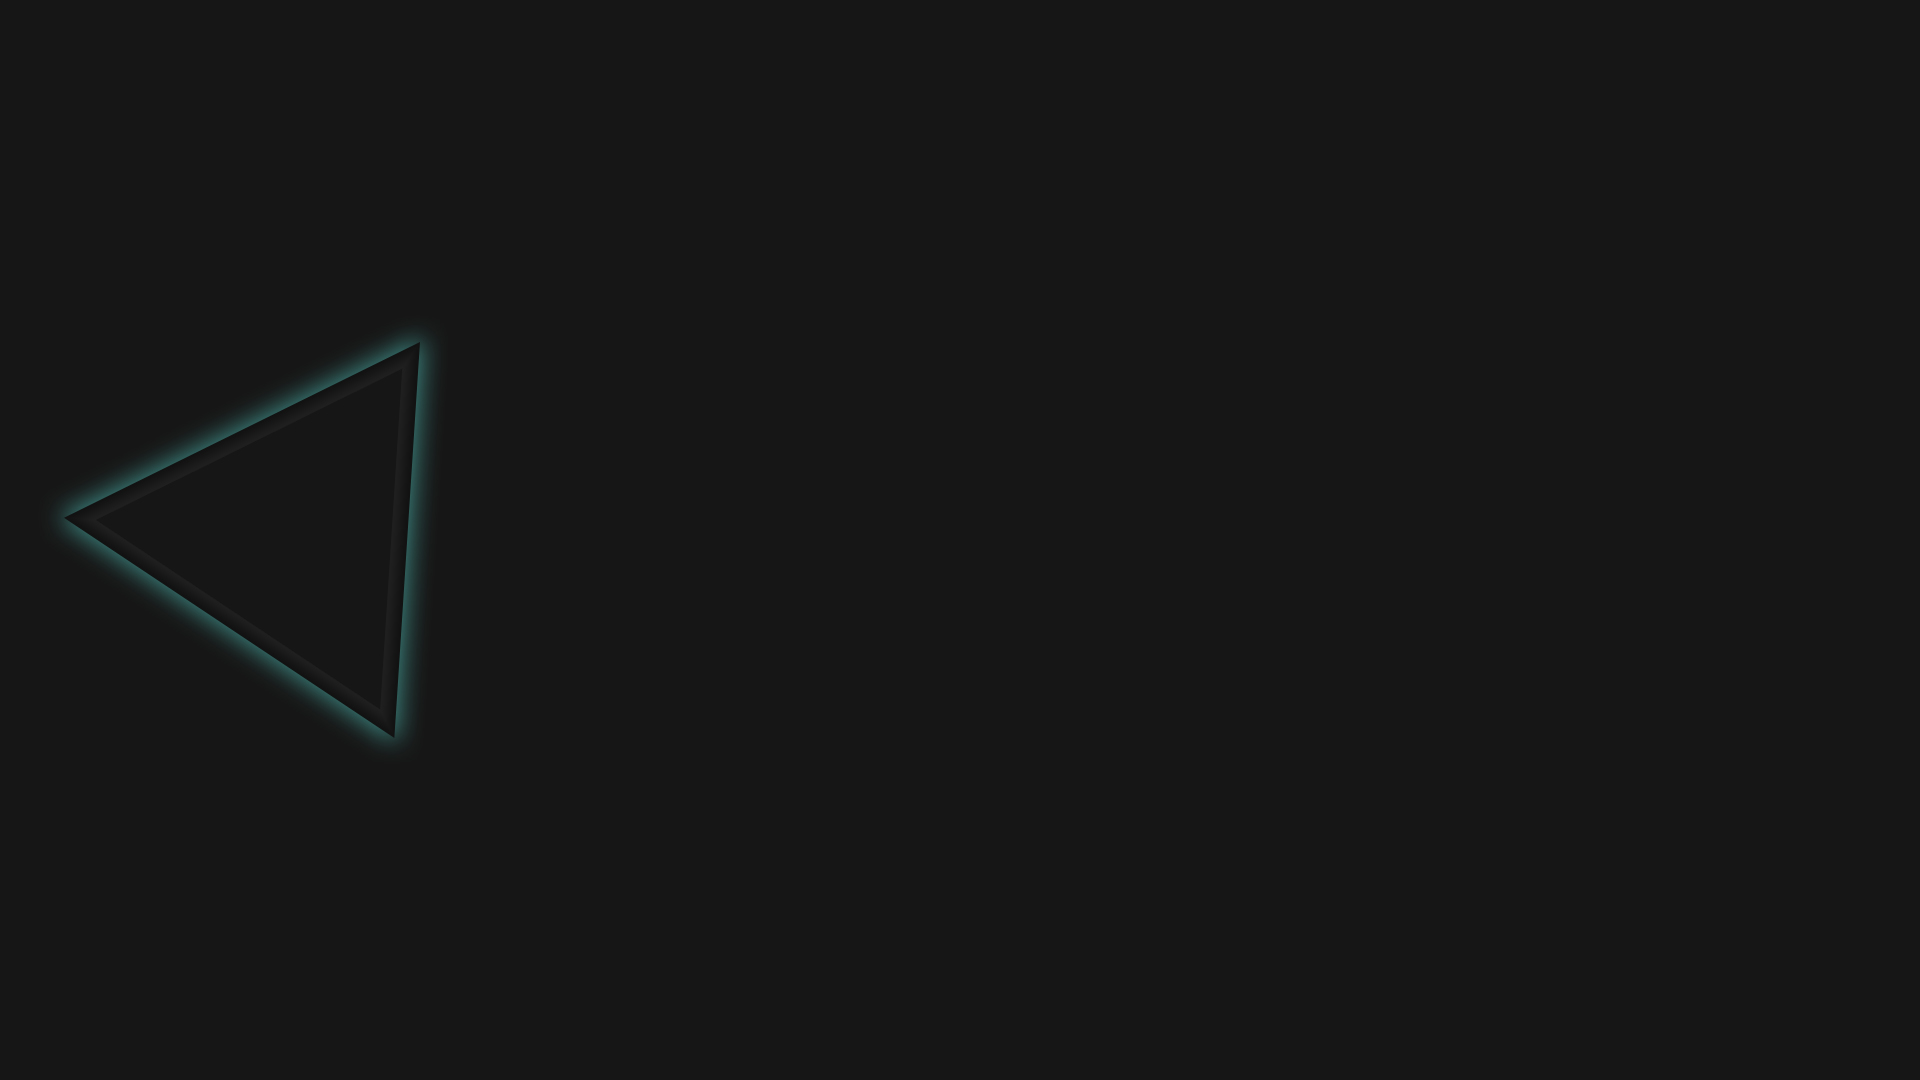
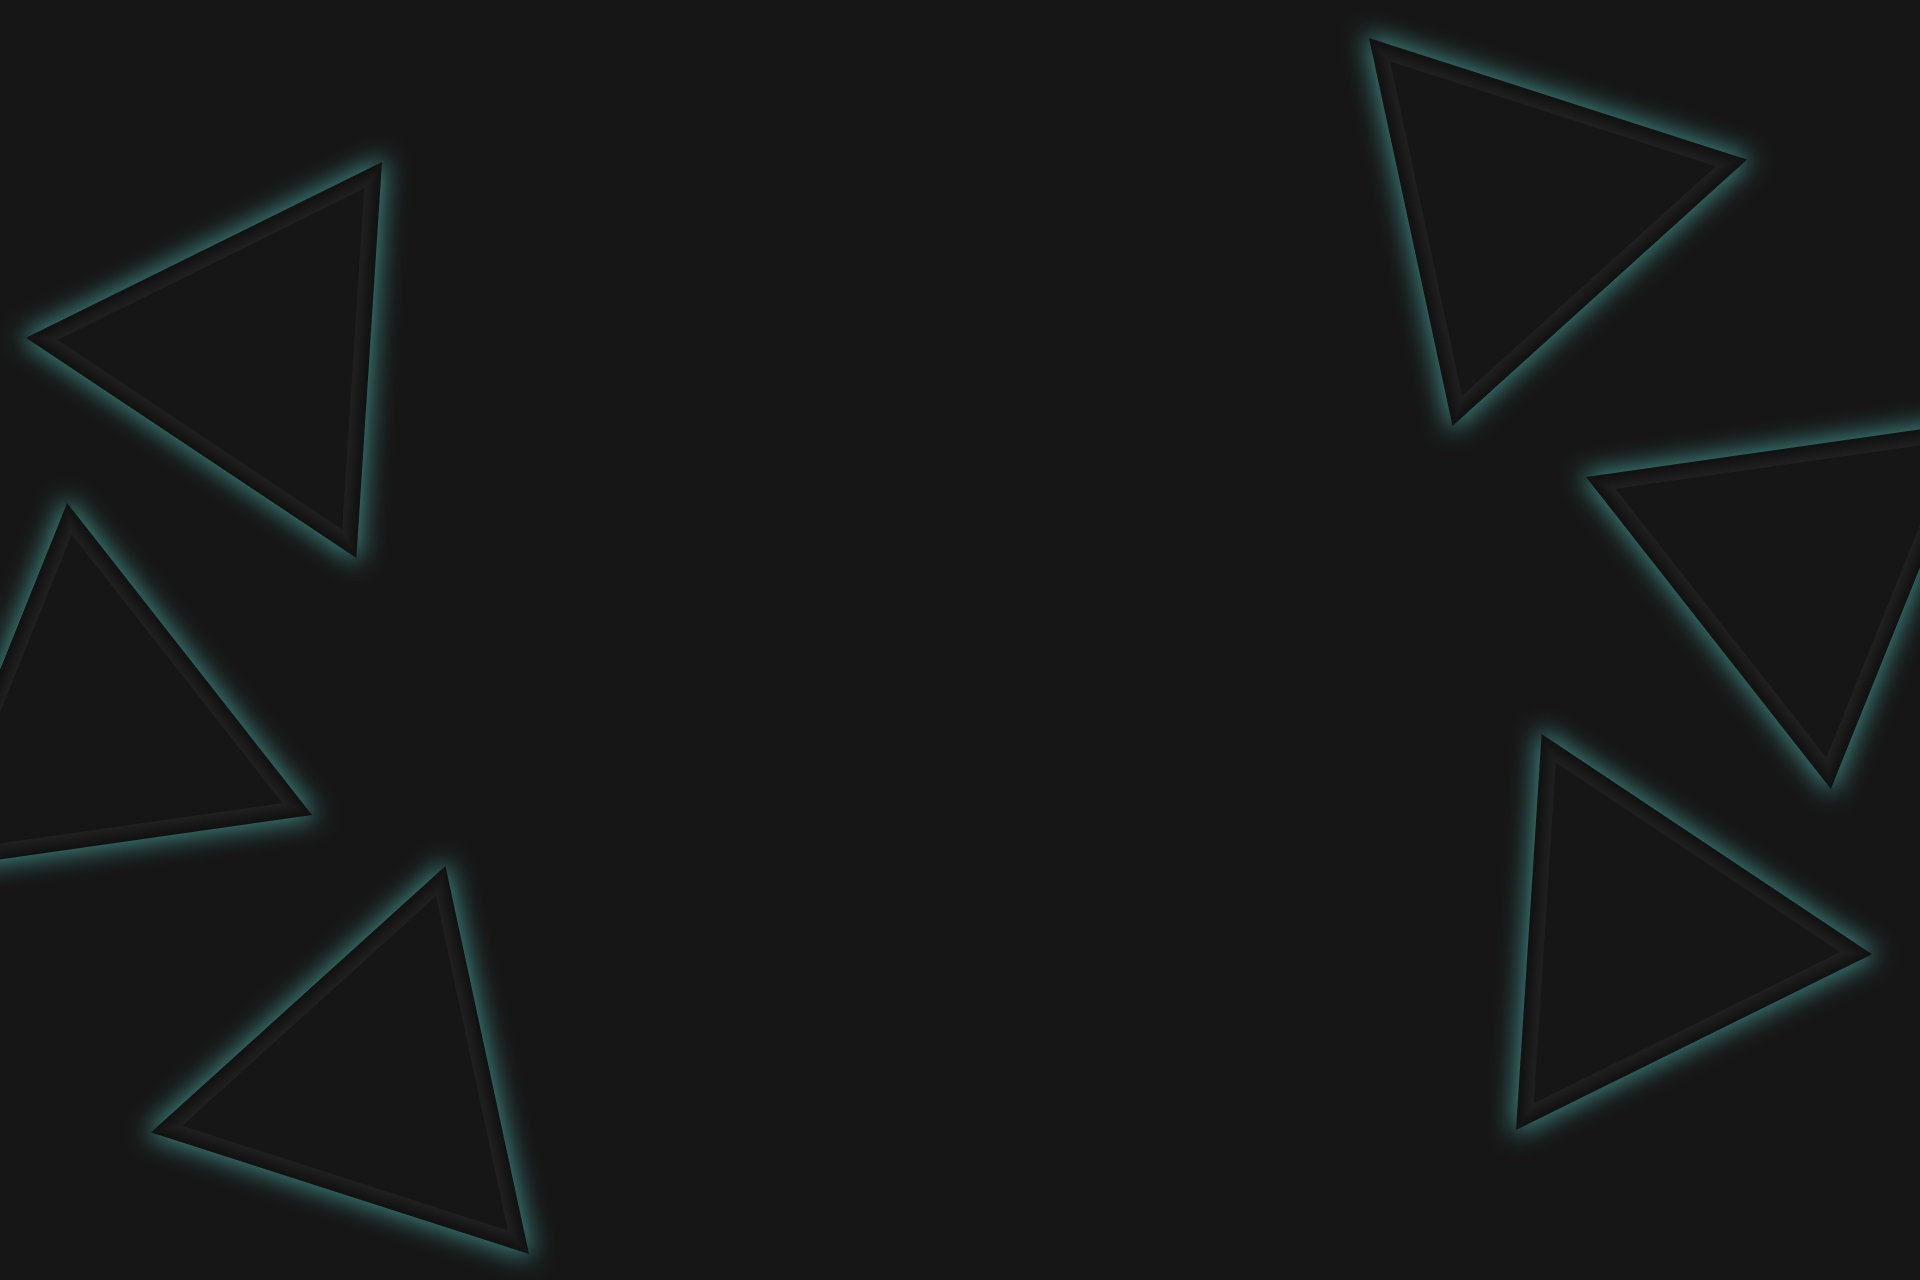
BG Working and Responsive

diff --git a/src/components/HomePage/Home/Home.css b/src/components/HomePage/Home/Home.css
@@ -17,13 +17,15 @@
 }
 
 .alt-bg {
-  position: absolute;
+  position: fixed;
   top: 0;
   left: 0;
   width: 100%;
   height: 100%;
   background-image: url('../../../assets/BGGlow.jpg');
-  background-size: cover;
+  background-size: 100vw auto; /* Ensure consistency */
+  background-position: center; /* Align with BGBase.jpg */
+  background-repeat: no-repeat; /* Prevent tiling */
   pointer-events: none; /* Prevents interference with user interactions */
   mask-image: radial-gradient(circle max(6vw,68px) at var(--xPos, 0px) var(--yPos, 0px), rgba(22, 22, 22, 1), rgba(0, 0, 0, 0));
   -webkit-mask-image: radial-gradient(circle max(6vw,68px) at var(--xPos, 0px) var(--yPos, 0px), rgba(0, 0, 0, 1), rgba(0, 0, 0, 0));

diff --git a/src/components/Common/CSS/Root.css b/src/components/Common/CSS/Root.css
@@ -141,12 +141,18 @@ body::-webkit-scrollbar-thumb {
 /* Stlyling In Body */
 html,
 body {
-  background-image: url(../../../assets/BGBase.jpg);
-  /* color: var(--font-color); */
-  /* font-family: 'Outfit', sans-serif; */
-  max-width: 100%;
+  background-color: #161616;
+  background-image: url("../../../assets/BGBase.jpg");
+  background-size: 100vw auto;
+  background-position: center;
+  background-repeat: no-repeat;
+  background-attachment: fixed; /* This prevents the background from scrolling */
+  min-height: 100vh;
+  width: 100%;
   overflow-x: hidden;
   scroll-behavior: smooth;
+  /* color: var(--font-color); */
+  /* font-family: 'Outfit', sans-serif; */
 }
 
 /* Styling In Common(Tags) */

diff --git a/src/components/HomePage/Segment/Segment.css b/src/components/HomePage/Segment/Segment.css
@@ -6,19 +6,7 @@
     flex-direction: column;
     gap: 2rem;
 }
-.alt-bg {
-    position: absolute;
-    top: 0;
-    left: 0;
-    width: 100%;
-    height: 100%;
-    background-image: url('../../../assets/BGGlow.jpg');
-    background-size: cover;
-    pointer-events: none; /* Prevents interference with user interactions */
-    mask-image: radial-gradient(circle max(6vw,68px) at var(--xPos, 0px) var(--yPos, 0px), rgba(22, 22, 22, 1), rgba(0, 0, 0, 0));
-    -webkit-mask-image: radial-gradient(circle max(6vw,68px) at var(--xPos, 0px) var(--yPos, 0px), rgba(0, 0, 0, 1), rgba(0, 0, 0, 0));
-    z-index: 1;
-  }
+
 .container-seg{
     position: relative;
     left:50%;

diff --git a/src/components/HomePage/Glimpse/Glimpse.css b/src/components/HomePage/Glimpse/Glimpse.css
@@ -10,18 +10,6 @@
   padding: 10px 10px;
 }
 
-.alt-bg {
-  position: absolute;
-  width: 100%;
-  height: 100%;
-  background-image: url('../../../assets/BGGlow.jpg');
-  background-size: cover;
-  pointer-events: none; /* Prevents interference with user interactions */
-  mask-image: radial-gradient(circle max(6vw,68px) at var(--xPos, 0px) var(--yPos, 0px), rgba(22, 22, 22, 1), rgba(0, 0, 0, 0));
-  -webkit-mask-image: radial-gradient(circle max(6vw,68px) at var(--xPos, 0px) var(--yPos, 0px), rgba(0, 0, 0, 1), rgba(0, 0, 0, 0));
-  z-index: 1;
-}
-
 @media (min-width: 786px) {
   .glimpse {
     display: inline-block;

diff --git a/src/components/HomePage/Home/Home.jsx b/src/components/HomePage/Home/Home.jsx
@@ -1,6 +1,6 @@
 import React from "react";
 import "./Home.css";
-import mainHeader from "../../../assets/FP25PH.png";
+import mainHeader from "../../../assets/FP25HeaderWhite.png";
 import { useMousePosition } from "../../../CustomHooks/useMousePosition";
 
 function Home() {

diff --git a/src/components/HomePage/Glimpse/Glimpse.jsx b/src/components/HomePage/Glimpse/Glimpse.jsx
@@ -124,7 +124,6 @@ const Glimpse = () => {
           </a>
         </div>
       </div>
-      <div className="alt-bg" style={{'--xPos':`${position.x}px`,'--yPos':`${position.y}px`}}></div>
       <img src="" alt="" />
     </div>
   );

diff --git a/src/components/HomePage/Segment/Segments.jsx b/src/components/HomePage/Segment/Segments.jsx
@@ -74,7 +74,6 @@ const Segments = () => {
           </button>
         </div>
       </div>
-      <div className="alt-bg" style={{'--xPos':`${position.x}px`,'--yPos':`${position.y}px`}}></div>
     </div>
   );
 };
